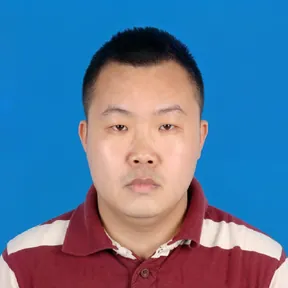
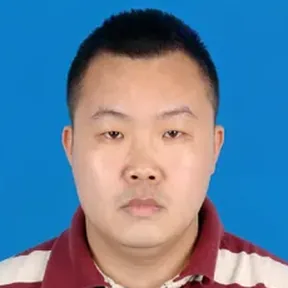
Portraits for the remaining 19 people; update former members' current positions
Claude-Session: https://claude.ai/code/session_011w6n72LWHva5oiHhJ63gRH

diff --git a/src/data/visitors.ts b/src/data/visitors.ts
@@ -48,8 +48,8 @@ export const visitors: Visitor[] = [
     start: '2022-11',
     role: { zh: "研究员", en: "Professor" },
     atLab: { zh: "数理逻辑与计算理论", en: "Mathematical logic and theory of computation" },
-    now: { zh: "日本东北大学名誉教授", en: "Professor Emeritus, Tohoku University" },
-    homepage: 'https://www.bimsa.cn/zh-CN/detail/tanaka.html',
+    homepage: 'https://sendailogic.com/tanaka.html',
+    photo: '/people/portraits/kazuyuki-tanaka.webp',
     id: 'kazuyuki-tanaka',
   },
   {
@@ -58,7 +58,8 @@ export const visitors: Visitor[] = [
     start: '2024-01',
     role: { zh: "研究员", en: "Professor" },
     atLab: { zh: "自然向量方法与生物信息", en: "Natural vector methods and bioinformatics" },
-    homepage: 'https://www.bimsa.cn/zh-CN/detail/drhu.html',
+    now: { zh: "河套数学与交叉学科研究院教授", en: "Professor, Hetao Institute of Mathematics and Interdisciplinary Sciences" },
+    photo: '/people/portraits/hu-guoqing.webp',
     id: 'hu-guoqing',
   },
   {
@@ -68,6 +69,7 @@ export const visitors: Visitor[] = [
     role: { zh: "助理研究员", en: "Assistant Professor" },
     atLab: { zh: "机器学习与统计学习", en: "Machine learning and statistical learning" },
     homepage: 'https://www.bimsa.cn/zh-CN/detail/congweisong.html',
+    photo: '/people/portraits/song-congwei.webp',
     id: 'song-congwei',
   },
   {
@@ -76,6 +78,7 @@ export const visitors: Visitor[] = [
     start: '2022-12',
     role: { zh: "博士后", en: "Postdoc" },
     atLab: { zh: "环面拓扑与同伦论", en: "Toric topology and homotopy theory" },
+    photo: '/people/portraits/fu-xin.webp',
     id: 'fu-xin',
   },
   {
@@ -85,6 +88,7 @@ export const visitors: Visitor[] = [
     role: { zh: "博士后 → 助理研究员", en: "Postdoc → Assistant Professor" },
     atLab: { zh: "非线性滤波与物理信息机器学习", en: "Nonlinear filtering and physics-informed machine learning" },
     homepage: 'https://www.bimsa.cn/zh-CN/detail/xpjiao.html',
+    photo: '/people/portraits/jiao-xiaopei.webp',
     id: 'jiao-xiaopei',
   },
   {
@@ -93,7 +97,9 @@ export const visitors: Visitor[] = [
     start: '2023-07',
     role: { zh: "博士后", en: "Postdoc" },
     atLab: { zh: "代数拓扑", en: "Algebraic topology" },
+    now: { zh: "河套数学与交叉学科研究院", en: "Hetao Institute of Mathematics and Interdisciplinary Sciences" },
     homepage: 'https://www.bimsa.cn/zh-CN/detail/yyruan.html',
+    photo: '/people/portraits/ruan-yangyang.webp',
     id: 'ruan-yangyang',
   },
   {
@@ -101,6 +107,7 @@ export const visitors: Visitor[] = [
     period: '2023.10–2024.12',
     start: '2023-10',
     role: { zh: "助理研究员", en: "Assistant Professor" },
+    photo: '/people/portraits/menzies-max.webp',
     id: 'menzies-max',
   },
   {
@@ -111,6 +118,7 @@ export const visitors: Visitor[] = [
     atLab: { zh: "控制、非线性滤波与机器学习", en: "Control, nonlinear filtering and machine learning" },
     now: { zh: "河套数学与交叉学科研究院助理教授（2025 年 11 月起）", en: "Assistant Professor, Hetao Institute of Mathematics and Interdisciplinary Sciences (since Nov 2025)" },
     homepage: 'https://www.bimsa.cn/zh-CN/detail/JiayiKang.html',
+    photo: '/people/portraits/kang-jiayi.webp',
     id: 'kang-jiayi',
   },
   {
@@ -120,6 +128,7 @@ export const visitors: Visitor[] = [
     role: { zh: "实习 → 博士后", en: "Intern → Postdoc" },
     atLab: { zh: "有向图同伦与 GLMY 理论", en: "Digraph homotopy and GLMY theory" },
     homepage: 'https://www.bimsa.cn/zh-CN/detail/mengmengzhang.html',
+    photo: '/people/portraits/zhang-mengmeng.webp',
     id: 'zhang-mengmeng',
   },
   {
@@ -128,7 +137,9 @@ export const visitors: Visitor[] = [
     start: '2022-04',
     role: { zh: "博士后", en: "Postdoc" },
     atLab: { zh: "拓扑数据分析", en: "Topological data analysis" },
+    now: { zh: "山东大学", en: "Shandong University" },
     homepage: 'https://www.bimsa.cn/zh-CN/detail/ypzi.html',
+    photo: '/people/portraits/zi-yunpeng.webp',
     id: 'zi-yunpeng',
   },
   {
@@ -138,6 +149,7 @@ export const visitors: Visitor[] = [
     role: { zh: "博士后", en: "Postdoc" },
     atLab: { zh: "生物数学与机器学习", en: "Mathematical biology and machine learning" },
     homepage: 'https://www.bimsa.cn/zh-CN/detail/NanSun.html',
+    photo: '/people/portraits/sun-nan.webp',
     id: 'sun-nan',
   },
   {
@@ -155,6 +167,7 @@ export const visitors: Visitor[] = [
     start: '2023-10',
     role: { zh: "博士后", en: "Postdoc" },
     atLab: { zh: "复杂网络建模", en: "Modelling of complex networks" },
+    photo: '/people/portraits/li-zhifan.webp',
     id: 'li-zhifan',
   },
   {
@@ -163,6 +176,7 @@ export const visitors: Visitor[] = [
     start: '2024-06',
     role: { zh: "博士后", en: "Postdoc" },
     atLab: { zh: "统计建模", en: "Statistical modelling" },
+    photo: '/people/portraits/thomas-wetere-tulu.webp',
     id: 'thomas-wetere-tulu',
   },
   {
@@ -171,6 +185,8 @@ export const visitors: Visitor[] = [
     start: '2022-12',
     role: { zh: "博士后", en: "Postdoc" },
     atLab: { zh: "有向图同调与应用拓扑", en: "Digraph homology and applied topology" },
+    now: { zh: "河套数学与交叉学科研究院", en: "Hetao Institute of Mathematics and Interdisciplinary Sciences" },
+    photo: '/people/portraits/matthew-burfitt.webp',
     id: 'matthew-burfitt',
   },
   {
@@ -180,6 +196,7 @@ export const visitors: Visitor[] = [
     role: { zh: "博士后", en: "Postdoc" },
     atLab: { zh: "多复变与复几何", en: "Several complex variables and complex geometry" },
     homepage: 'https://www.bimsa.cn/zh-CN/detail/GenglongLin.html',
+    photo: '/people/portraits/lin-genglong.webp',
     id: 'lin-genglong',
   },
 ]

diff --git a/src/data/people.ts b/src/data/people.ts
@@ -60,6 +60,7 @@ export const assistants: Person[] = [
     id: 'chen-tianhe',
     name: { zh: '陈天翮', en: 'Tianhe Chen' },
     role: { zh: '实验室助理', en: 'Laboratory Assistant' },
+    photo: P('chen-tianhe'),
     // TODO(lab): add a public email for 陈天翮.
   },
 ]
@@ -82,8 +83,7 @@ export const committeeMembers: Person[] = [
   { id: 'zhu-liping', name: { zh: '朱利平', en: 'Liping Zhu' }, photo: P('zhu-liping') },
   { id: 'liu-jingyuan', name: { zh: '刘婧媛', en: 'Jingyuan Liu' }, photo: P('liu-jingyuan') },
   { id: 'yang-fan', name: { zh: '杨帆', en: 'Fan Yang' }, photo: P('yang-fan') },
-  // TODO(lab): portrait for 崔跃华 (the repo's old photo files were corrupt).
-  { id: 'cui-yuehua', name: { zh: '崔跃华', en: 'Yuehua Cui' } },
+  { id: 'cui-yuehua', name: { zh: '崔跃华', en: 'Yuehua Cui' }, photo: P('cui-yuehua') },
 ].map((p): Person => ({ ...p, role: { zh: '委员', en: 'Member' } }))
 
 // ---------- Members ----------
@@ -130,8 +130,8 @@ export const members: Member[] = [
   { id: 'qin-shuo', tier: 'assistant', name: { zh: "秦硕", en: "Shuo Qin" }, photo: P('qin-shuo'), title: { zh: "陈省身冠名讲师", en: "Chern Instructor" }, since: '2024.06' },
   { id: 'deng-manyao', tier: 'postdoc', name: { zh: "邓曼瑶", en: "Manyao Deng" }, photo: P('deng-manyao'), title: { zh: "博士后", en: "Postdoc" }, since: '2022.10' },
   { id: 'liu-zhiwen', tier: 'postdoc', name: { zh: "刘志文", en: "Zhiwen Liu" }, photo: P('liu-zhiwen'), title: { zh: "博士后", en: "Postdoc" }, since: '2024.07' },
-  { id: 'zhang-ping', tier: 'student', name: { zh: "张萍", en: "Ping Zhang" }, title: { zh: "研究助理", en: "Research Assistant" }, since: '2020.09' },
-  { id: 'hu-yuzhong', tier: 'student', name: { zh: "胡煜中", en: "Yuzhong Hu" }, title: { zh: "博士研究生", en: "PhD student" }, since: '2021.03' },
+  { id: 'zhang-ping', tier: 'student', name: { zh: "张萍", en: "Ping Zhang" }, photo: P('zhang-ping'), title: { zh: "研究助理", en: "Research Assistant" }, since: '2020.09' },
+  { id: 'hu-yuzhong', tier: 'student', name: { zh: "胡煜中", en: "Yuzhong Hu" }, photo: P('hu-yuzhong'), title: { zh: "博士研究生", en: "PhD student" }, since: '2021.03' },
   // Not in the 2026-11 BIMSA roster, kept at the lab's request.
   { id: 'lei-fengchun', tier: 'professor', name: { zh: '雷逢春', en: 'Fengchun Lei' }, photo: P('lei-fengchun'), title: { zh: '研究员', en: 'Professor' } },
   { id: 'bai-hao', tier: 'postdoc', name: { zh: '柏浩', en: 'Hao Bai' }, photo: P('bai-hao'), title: { zh: '博士后', en: 'Postdoc' }, homepage: bimsa('hbai') },
